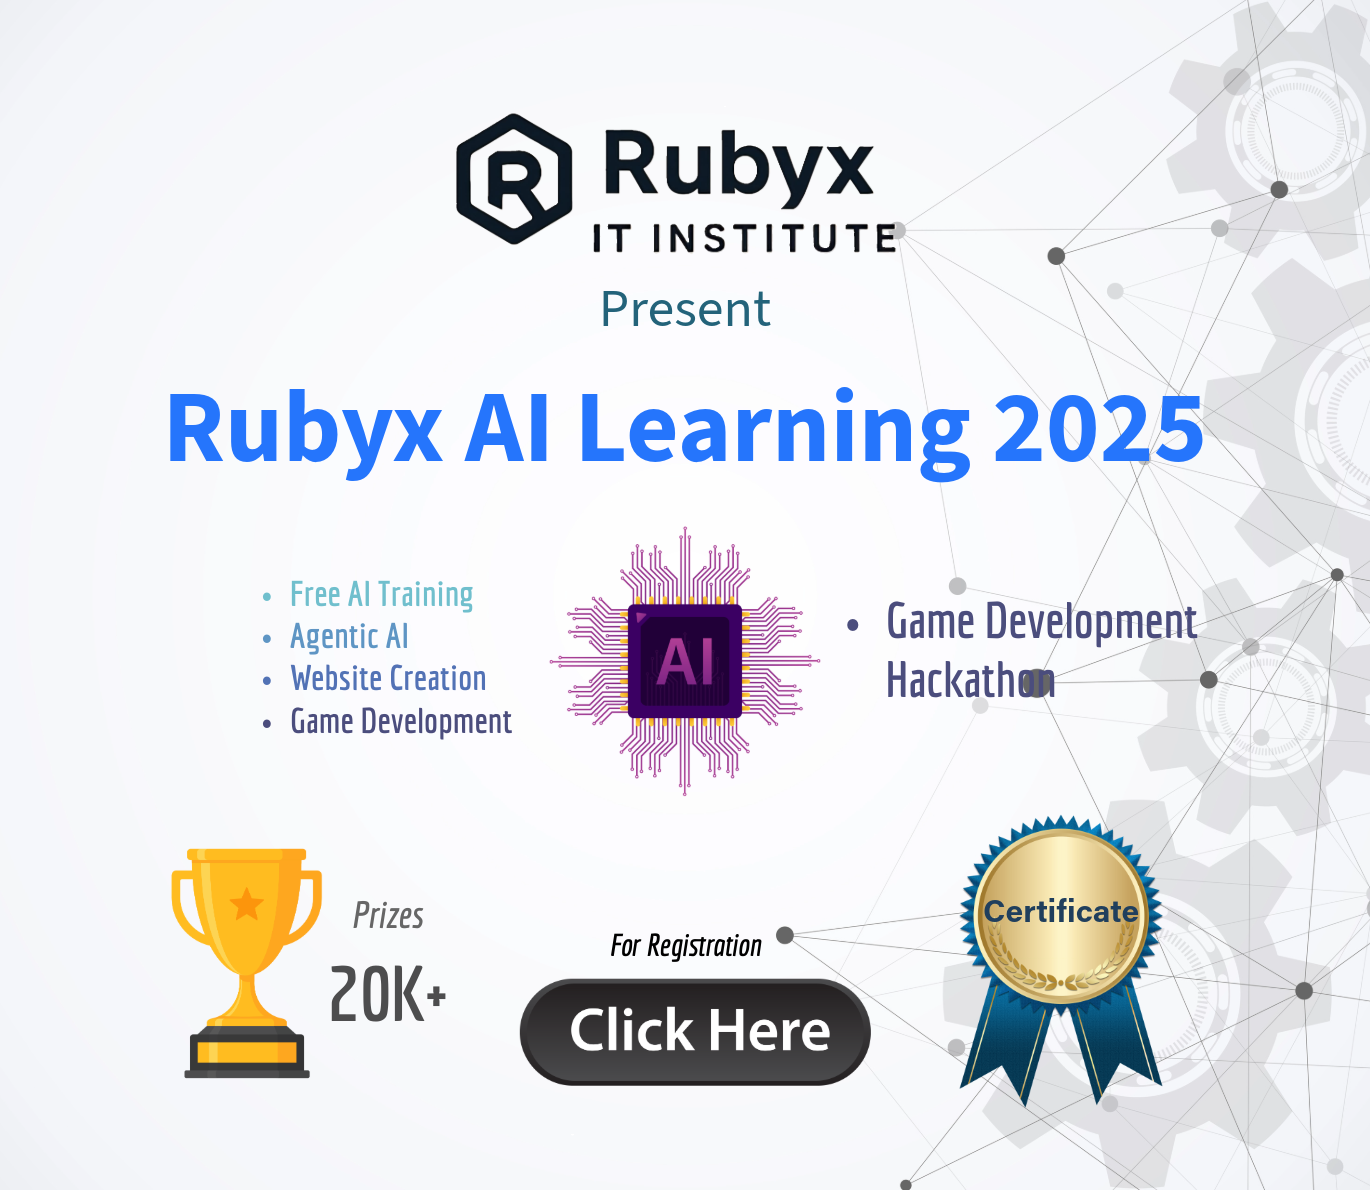
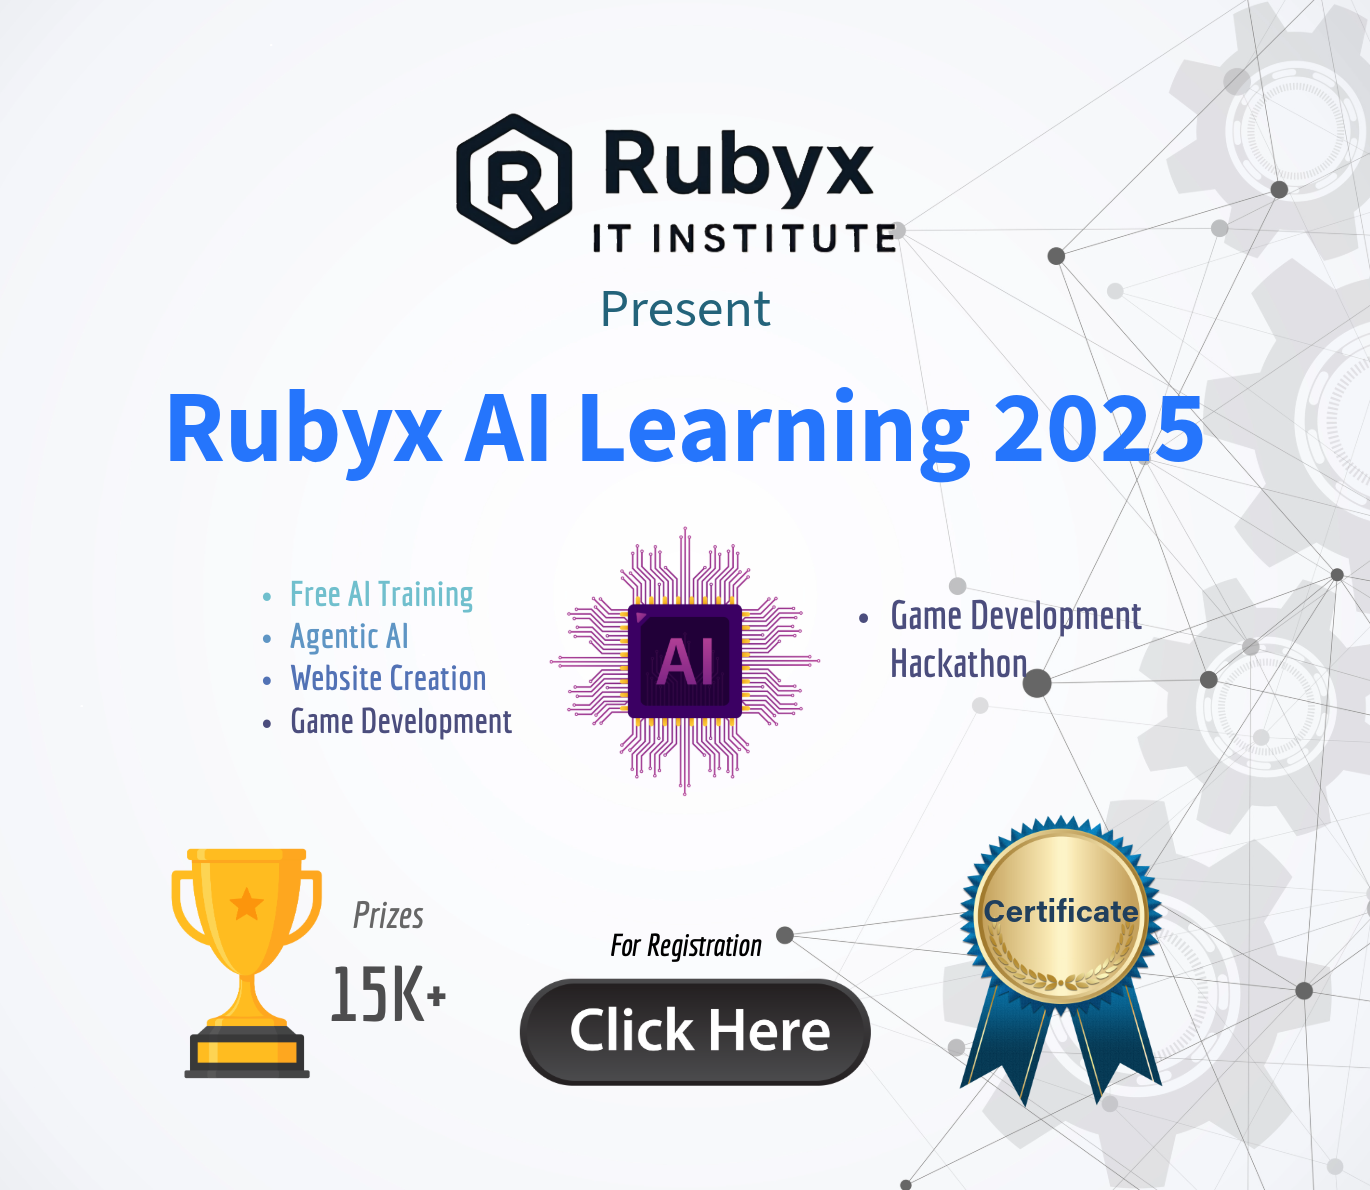
Ai learning changes

Changed region(s): [[0.6131, 0.4975, 0.8891, 0.5908], [0.2453, 0.8084, 0.3066, 0.8706]]

diff --git a/hackathon.html b/hackathon.html
@@ -67,22 +67,22 @@
             <div class="event-schedule">
                 <div class="schedule-day">
                     <div class="day-header">
-                        <h3><i class="fas fa-calendar-day"></i> Day 1-5 - Free AI Training Sessions</h3>
+                        <h3><i class="fas fa-calendar-day"></i> Day 1-4 - Free AI Training Sessions</h3>
                     </div>
                     <div class="day-info">
-                        <p><strong>Date:</strong> <time datetime="2025-08-22">Announce Soon<!--25-29 August, 2025 (Monday-Friday)--></time></p>
-                        <p><strong>Time:</strong> <time datetime="18:00">6:00 PM</time> - <time datetime="20:00">8:00 PM</time></p>
+                        <p><strong>Date:</strong> <time datetime="2025-08-22">1-4 September, 2025 (Monday-Thursday)</time></p>
+                        <p><strong>Time:</strong> <time datetime="18:00">6:15 PM</time> - <time datetime="20:00">8:00 PM</time></p>
                         <p><strong>Focus:</strong> Agentic AI Training, Website & Web Game Development </p>
                     </div>
                 </div>
                 
                 <div class="schedule-day">
                     <div class="day-header">
-                        <h3><i class="fas fa-trophy"></i> Day 6 - Game Development Hackathon</h3>
+                        <h3><i class="fas fa-trophy"></i> Day 5 - Game Development Hackathon</h3>
                     </div>
                     <div class="day-info">
-                        <p><strong>Date:</strong> <time datetime="2025-08-23">Announce Soon<!--30 August, 2025 (Saturday)--></time></p>
-                        <p><strong>Time:</strong> <time datetime="17:00">5:00 PM</time> - <time datetime="20:00">8:00 PM</time></p>
+                        <p><strong>Date:</strong> <time datetime="2025-08-23">5 September, 2025 (Friday)</time></p>
+                        <p><strong>Time:</strong> <time datetime="17:00">6:15 PM</time> - <time datetime="20:00">8:00 PM</time></p>
                         <p><strong>Focus:</strong> Web Game Development Hackathon</p>
                     </div>
                 </div>
@@ -91,7 +91,7 @@
             <div class="event-highlights">
                 <div class="highlight">
                     <i class="fas fa-trophy"></i>
-                    <span>₹20K+ Prizes</span>
+                    <span>₹15K+ Prizes</span>
                 </div>
                 <div class="highlight">
                     <i class="fas fa-map-marker-alt"></i>
